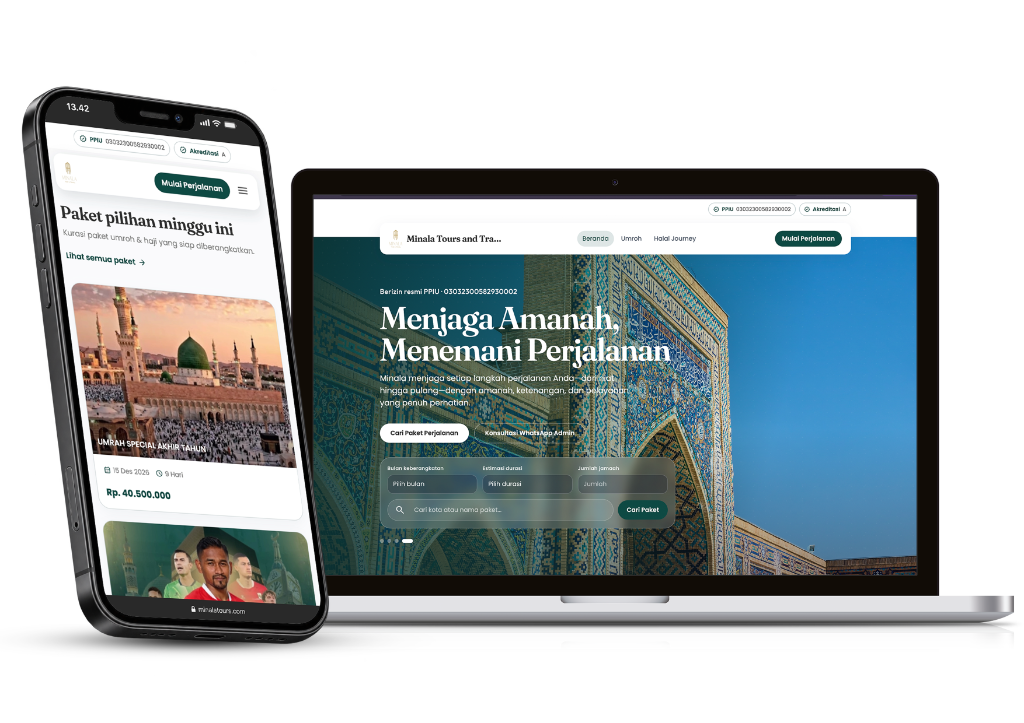
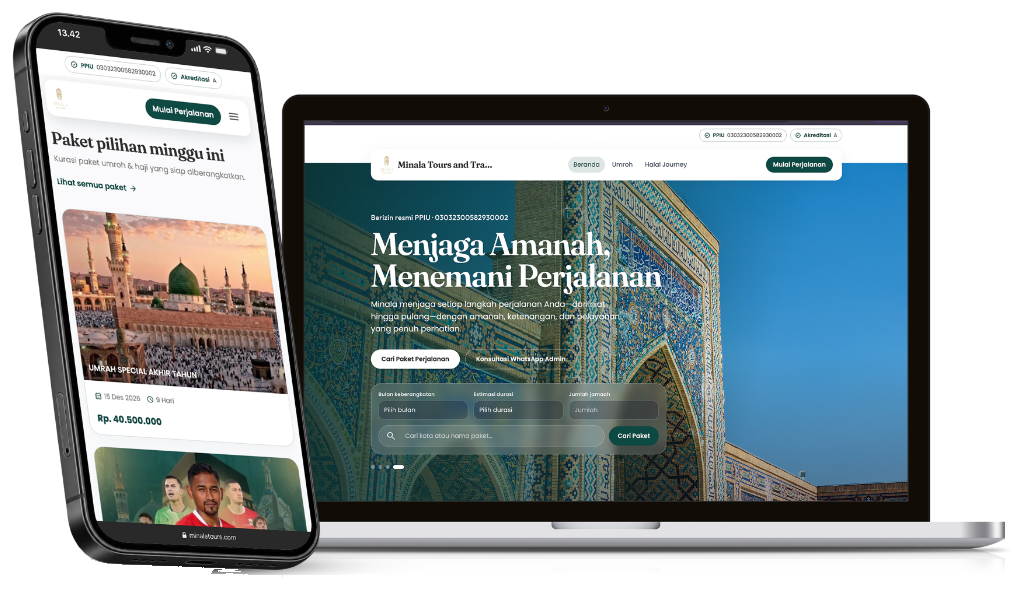
Wrap project screenshots in the cards and remove the black plates.

diff --git a/components/UiMock.vue b/components/UiMock.vue
@@ -251,7 +251,24 @@ onUnmounted(() => {
   background: #070707;
 }
 
-.shot img { aspect-ratio: 1024 / 723; }
+.shot img { aspect-ratio: auto; object-fit: contain; background: transparent; }
+
+.mock.is-shot:not(:has(.is-video)) {
+  background: transparent;
+  border: 0;
+  box-shadow: none;
+}
+
+.shot:not(.is-video) { background: transparent; }
+
+.shot:not(.is-video) figcaption {
+  position: static;
+  display: inline-flex;
+  width: fit-content;
+  margin: 12px 0 0;
+  background: #fffcf8;
+  border: 1px solid rgba(28, 25, 22, 0.12);
+}
 .shot video { aspect-ratio: 880 / 504; }
 
 .shot figcaption {
@@ -280,7 +297,9 @@ onUnmounted(() => {
 
 .shot-stage {
   display: flex;
+  flex-wrap: wrap;
   align-items: flex-end;
+  justify-content: center;
   gap: 12px;
   min-width: 0;
   max-width: 100%;
@@ -296,8 +315,9 @@ onUnmounted(() => {
 }
 
 .shot.is-pair .shot-desk {
-  flex: 1 1 auto;
-  min-width: 0;
+  flex: 1 1 260px;
+  min-width: min(100%, 240px);
+  max-width: 100%;
   width: auto;
 }
 
